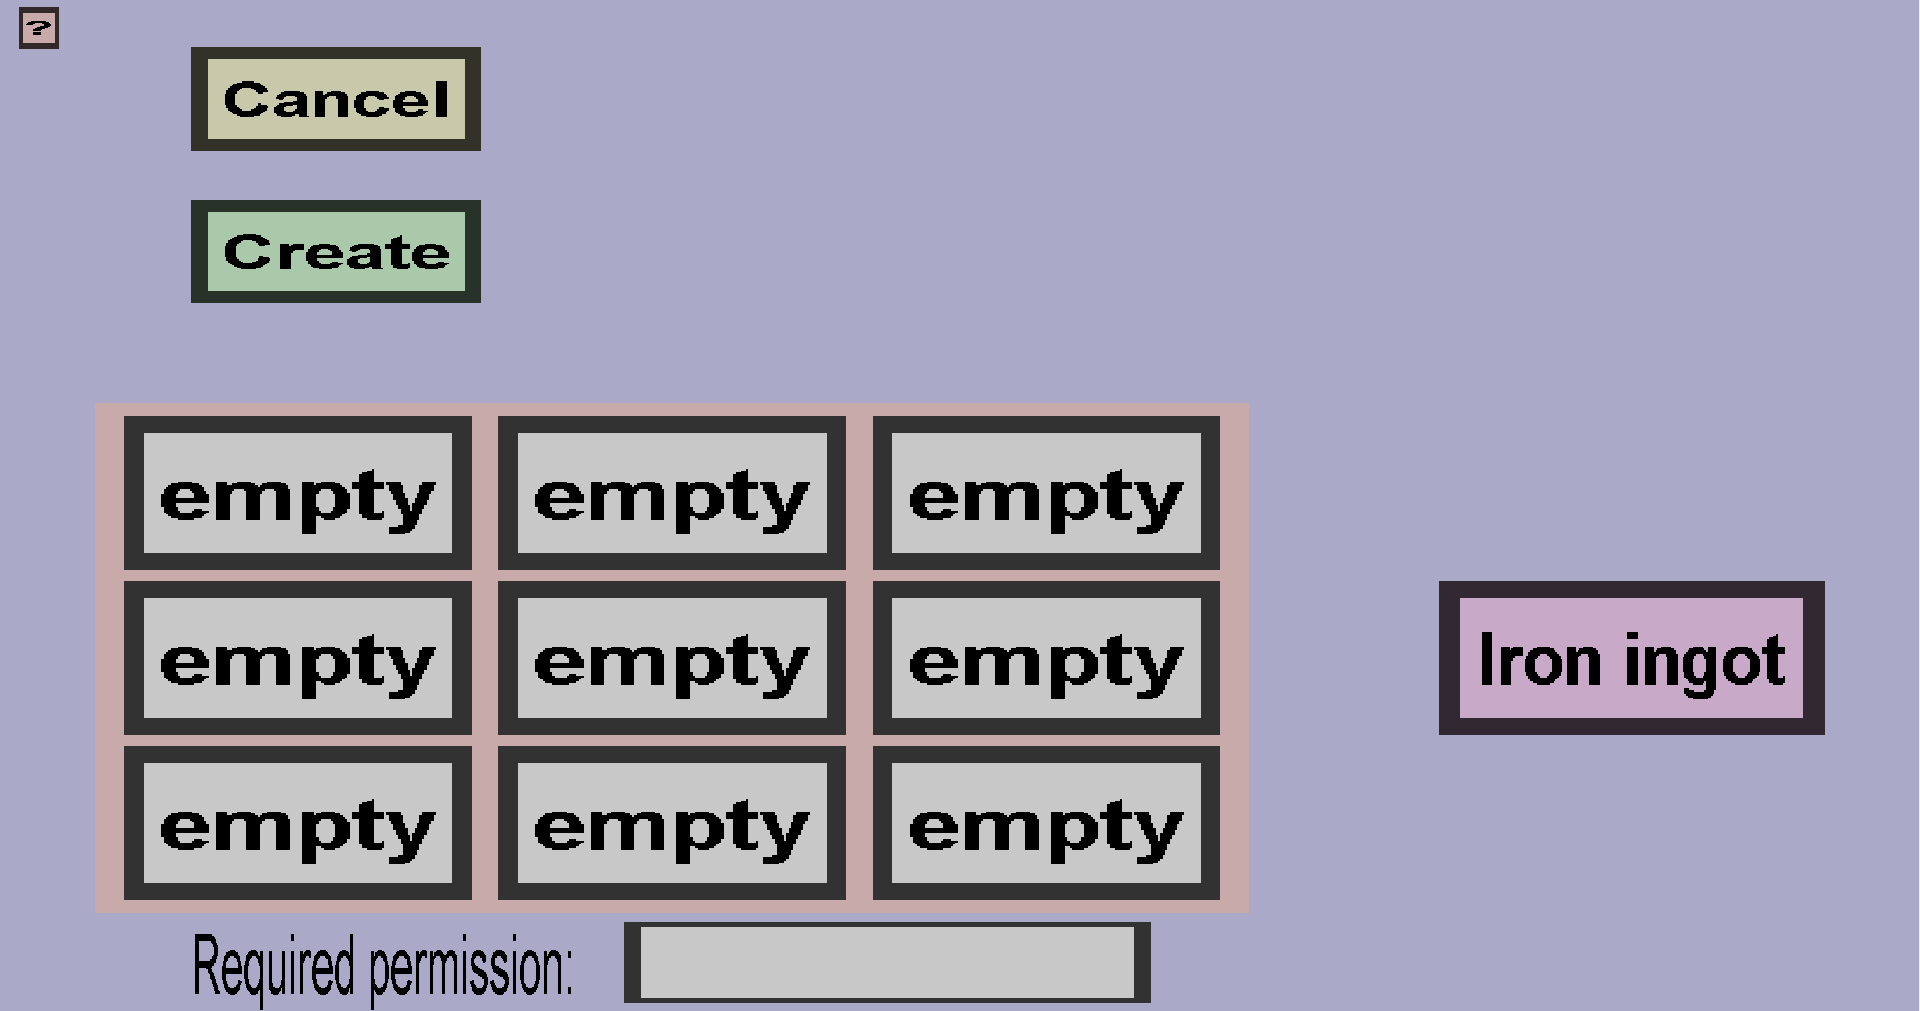
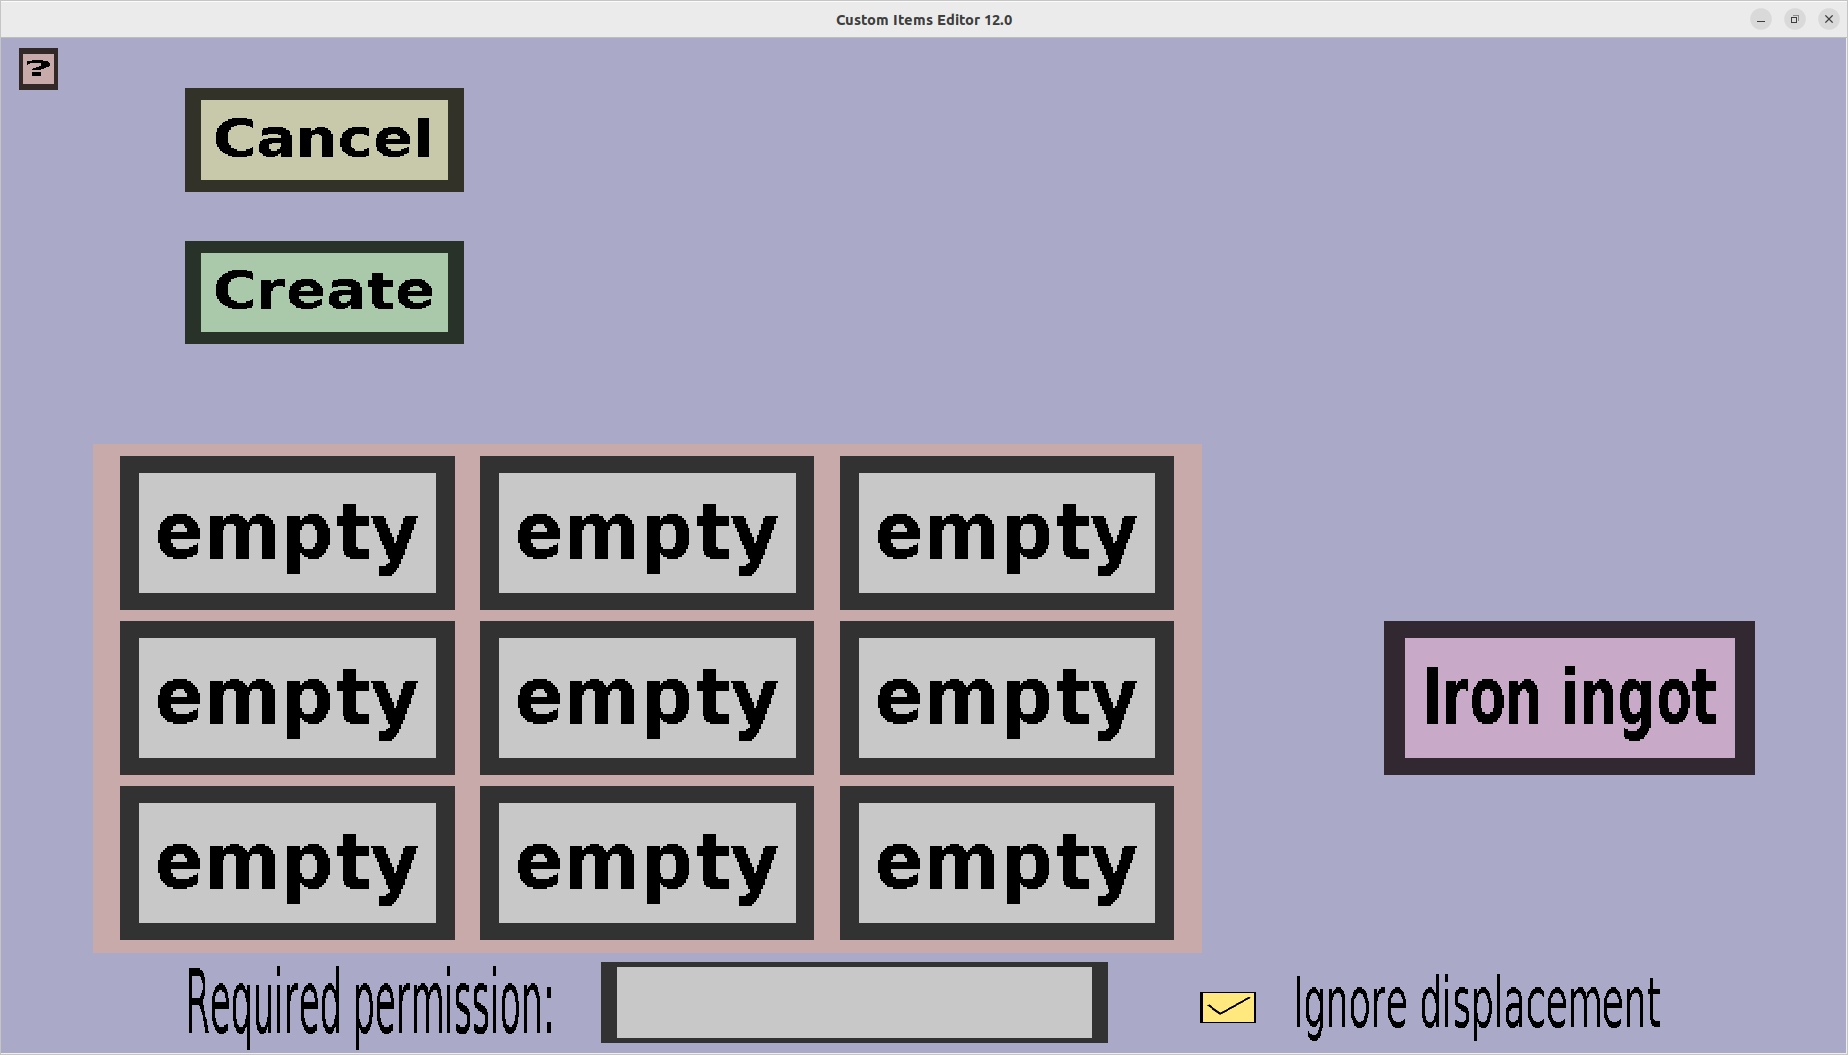
Document the new ignore displacement feature of shaped KCI recipes

diff --git a/custom items/editor documentation/edit menu/recipes/shaped.html b/custom items/editor documentation/edit menu/recipes/shaped.html
@@ -84,5 +84,31 @@
             type anything in this field, this recipe can only be used by players who have that permission or the
             <b>customitems.craftall</b> permission.
         </p>
+        <h3>Ignore displacement</h3>
+        <p>
+            Whether players can ignore the <i>displacement</i> of this recipe. Consider the following recipe:
+        </p>
+        <table>
+            <tbody>
+                <tr><td>empty</td><td><b>flint</b></td><td>empty</td></tr>
+                <tr><td>empty</td><td><b>stick</b></td><td>empty</td></tr>
+                <tr><td>empty</td><td>empty</td><td>empty</td></tr>
+            </tbody>
+        </table>
+        <p>
+            You can always craft the result by placing flint in the top-middle slot and a stick in the middle slot.
+            If you enable <i>Ignore displacement</i>, you can <b>also</b> craft the result by e.g. putting
+            flint in the top-left slot and a stick in the middle-left slot.
+        </p>
+        <table>
+            <tbody>
+                <tr><td><b>flint</b></td><td>empty</td><td>empty</td></tr>
+                <tr><td><b>stick</b></td><td>empty</td><td>empty</td></tr>
+                <tr><td>empty</td><td>empty</td><td>empty</td></tr>
+            </tbody>
+        </table>
+        <p>
+            This is consistent with vanilla minecraft recipes, there are for instance many ways to craft a torch.
+        </p>
     </body>
 </html>
